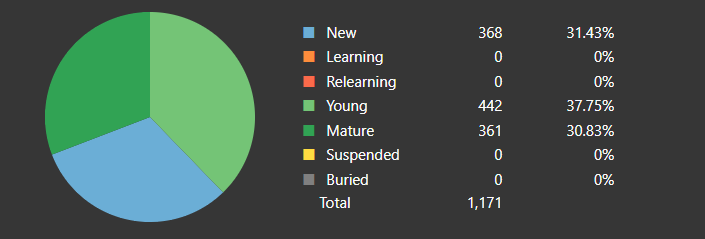
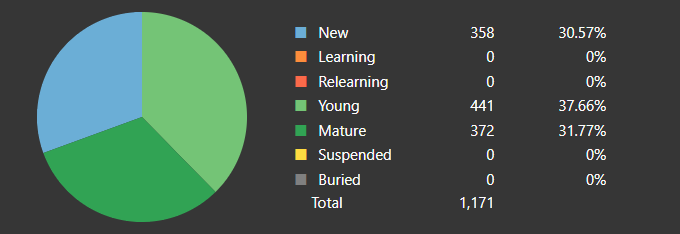
Deployed 2621fa0 with MkDocs version: 1.5.3

diff --git a/index.html b/index.html
@@ -423,15 +423,15 @@
       <ul class="md-nav__list">
         
           <li class="md-nav__item">
-  <a href="#tango-n5-as-of-110323" class="md-nav__link">
-    Tango N5 as of 11/03/23
+  <a href="#tango-n5-as-of-110423" class="md-nav__link">
+    Tango N5 as of 11/04/23
   </a>
   
 </li>
         
           <li class="md-nav__item">
-  <a href="#tango-n4-as-of-110323" class="md-nav__link">
-    Tango N4 as of 11/03/23
+  <a href="#tango-n4-as-of-110423" class="md-nav__link">
+    Tango N4 as of 11/04/23
   </a>
   
 </li>
@@ -1827,15 +1827,15 @@
       <ul class="md-nav__list">
         
           <li class="md-nav__item">
-  <a href="#tango-n5-as-of-110323" class="md-nav__link">
-    Tango N5 as of 11/03/23
+  <a href="#tango-n5-as-of-110423" class="md-nav__link">
+    Tango N5 as of 11/04/23
   </a>
   
 </li>
         
           <li class="md-nav__item">
-  <a href="#tango-n4-as-of-110323" class="md-nav__link">
-    Tango N4 as of 11/03/23
+  <a href="#tango-n4-as-of-110423" class="md-nav__link">
+    Tango N4 as of 11/04/23
   </a>
   
 </li>
@@ -1889,13 +1889,13 @@
 
 <h1 id="docjp-landing-page">doc.jp Landing Page<a class="headerlink" href="#docjp-landing-page" title="Permanent link">&para;</a></h1>
 <h2 id="anki-deck-card-counts">Anki Deck Card Counts<a class="headerlink" href="#anki-deck-card-counts" title="Permanent link">&para;</a></h2>
-<h3 id="tango-n5-as-of-110323">Tango N5 as of 11/03/23<a class="headerlink" href="#tango-n5-as-of-110323" title="Permanent link">&para;</a></h3>
-<p><strong>803</strong> vocabulary words known with <strong>368</strong> new cards remaining </p>
+<h3 id="tango-n5-as-of-110423">Tango N5 as of 11/04/23<a class="headerlink" href="#tango-n5-as-of-110423" title="Permanent link">&para;</a></h3>
+<p><strong>813</strong> vocabulary words known with <strong>358</strong> new cards remaining </p>
 <ul>
 <li>On track to finish all new cards on <strong>12/10/23</strong> doing <strong>10</strong> new cards a day.</li>
 </ul>
 <p><img align="center" alt="Card Counts" src="assets/anki-stats/n5-card-counts.png" /></p>
-<h3 id="tango-n4-as-of-110323">Tango N4 as of 11/03/23<a class="headerlink" href="#tango-n4-as-of-110323" title="Permanent link">&para;</a></h3>
+<h3 id="tango-n4-as-of-110423">Tango N4 as of 11/04/23<a class="headerlink" href="#tango-n4-as-of-110423" title="Permanent link">&para;</a></h3>
 <p><strong>0</strong> vocabulary words known with <strong>917</strong> new cards remaining: Haven't started this deck yet.</p>
 <p><img align="center" alt="Card Counts" src="assets/anki-stats/n4-card-counts.png" /></p>
 <h2 id="grammar-learning">Grammar Learning<a class="headerlink" href="#grammar-learning" title="Permanent link">&para;</a></h2>
